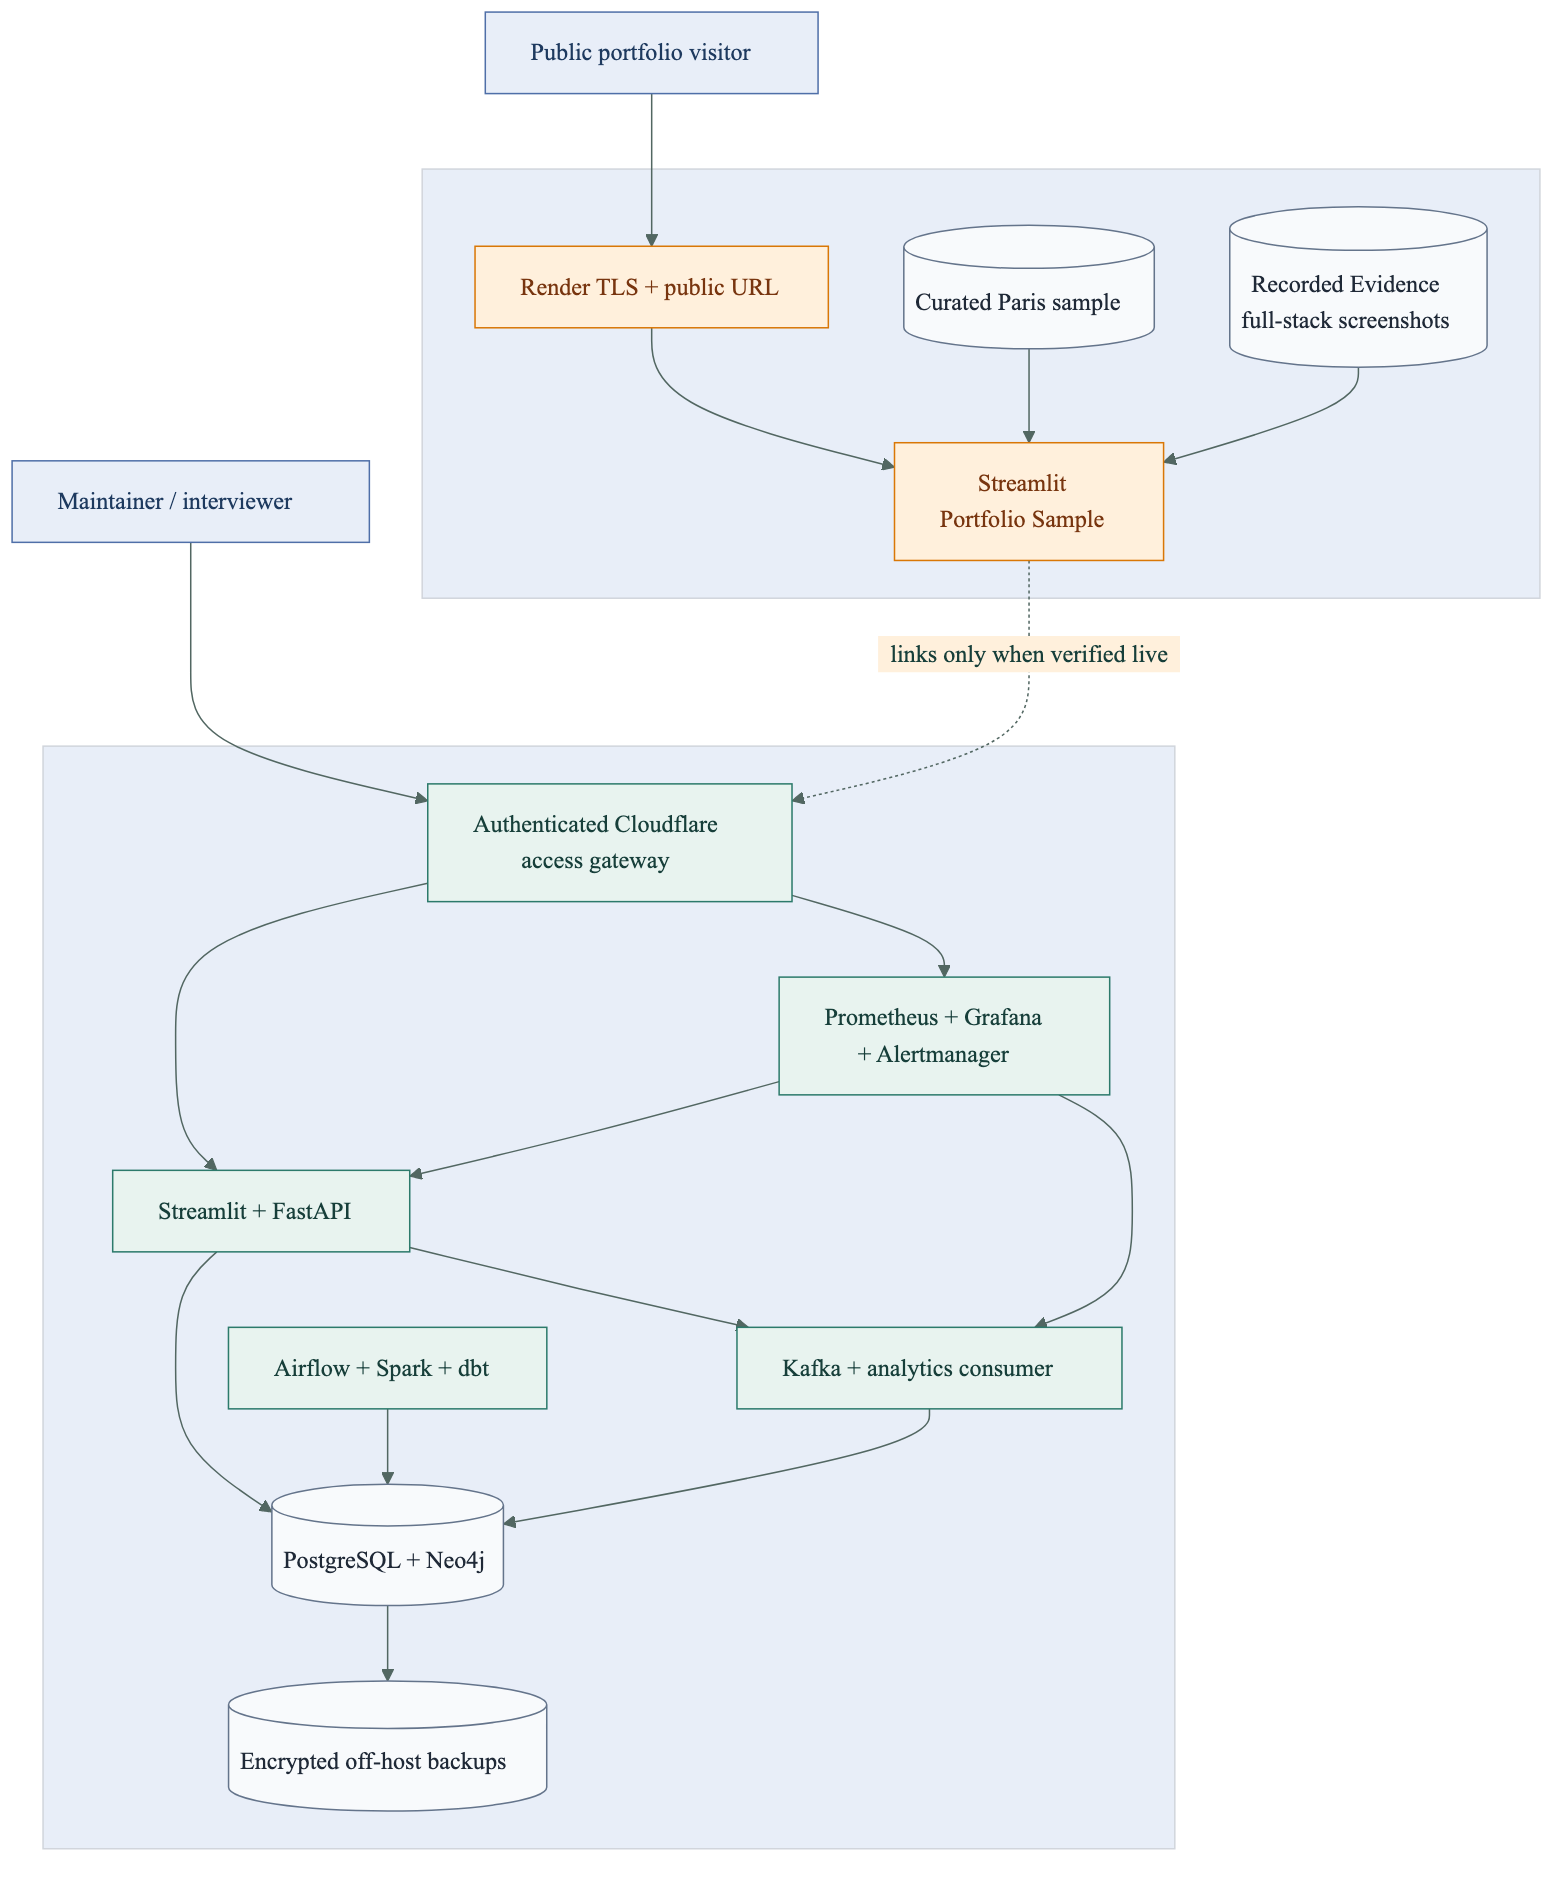
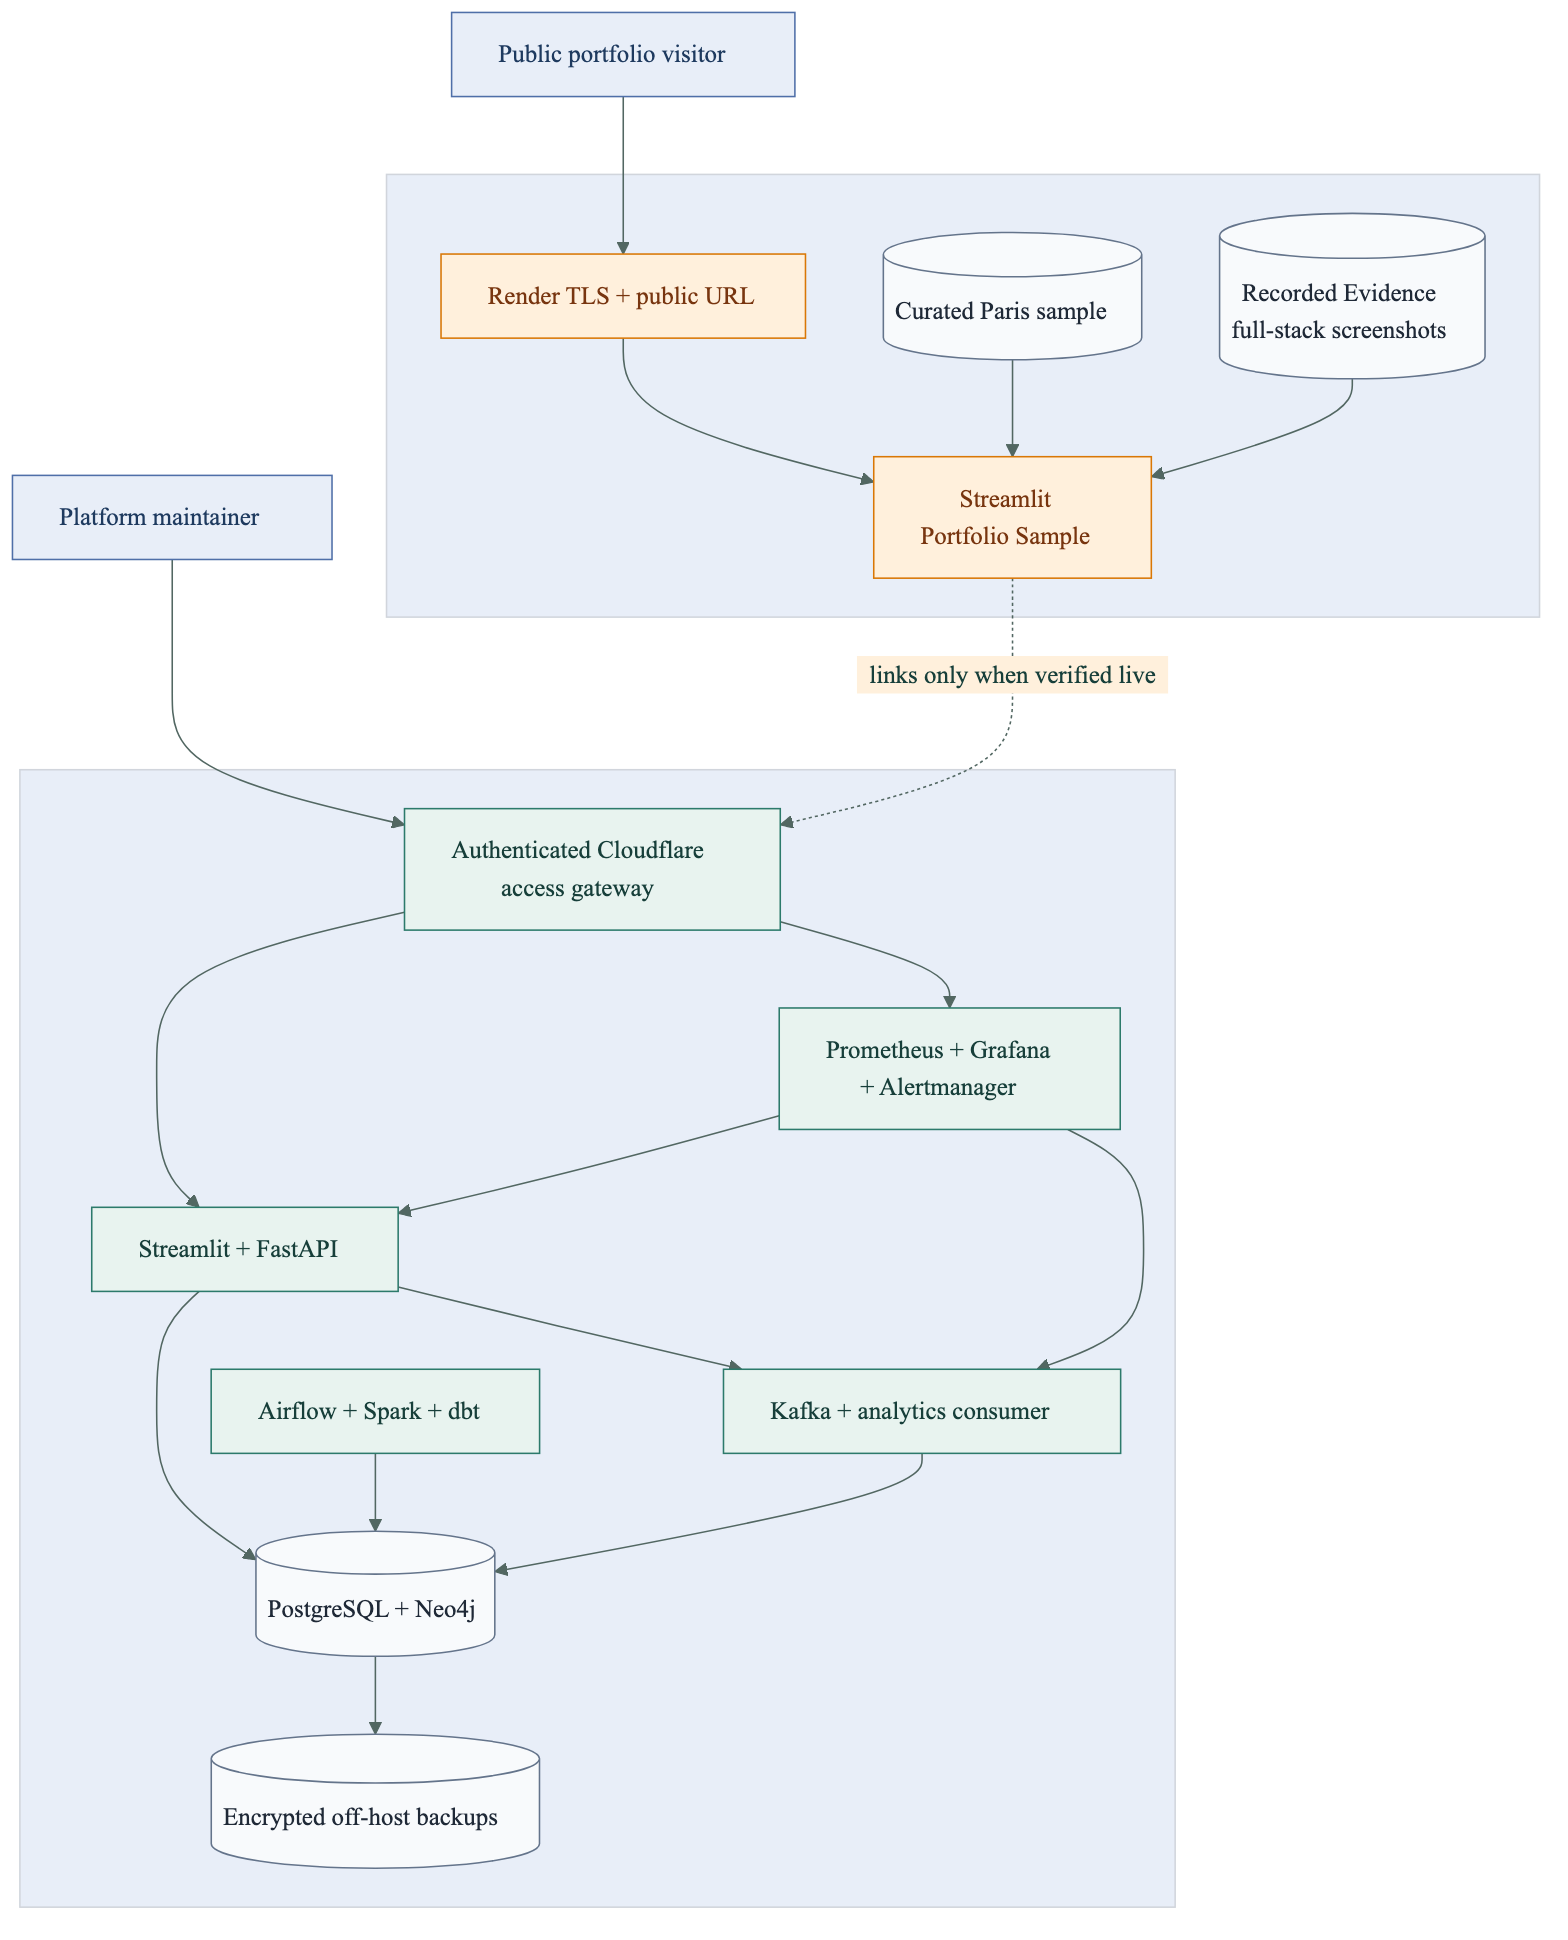
chore: streamline project documentation

diff --git a/README.md b/README.md
@@ -2,7 +2,7 @@
 
 An end-to-end tourism data product that turns DATAtourisme snapshots into trusted Points of Interest, explainable multi-day itineraries, analytical features, graph relationships, product events, and operational evidence.
 
-**[Open the public portfolio](https://holiday-itinerary-platform.onrender.com/)** · **[Architecture](docs/ARCHITECTURE.md)** · **[Interview guide](docs/INTERVIEW_GUIDE.md)**
+**[Open the live application](https://holiday.hassansalamb.dev/)** · **[Architecture](docs/ARCHITECTURE.md)** · **[Roadmap](docs/ROADMAP.md)**
 
 ![Holiday Itinerary data pipeline](docs/architecture/02-data-pipeline.png)
 
@@ -106,7 +106,6 @@ Durable trade-offs are recorded in [`docs/adr`](docs/adr).
 │   ├── architecture/             Editable diagrams plus PNG/SVG renders
 │   ├── operations/               Proxmox and Kubernetes guidance
 │   ├── ARCHITECTURE.md            Technical architecture walkthrough
-│   ├── INTERVIEW_GUIDE.md         Interview narrative and technical Q&A
 │   └── ROADMAP.md                 Prioritized product/platform improvements
 ├── monitoring/                   Prometheus, Grafana, and Alertmanager config
 ├── scripts/proxmox/              Deployment, health, and backup automation
@@ -237,12 +236,18 @@ See the [Proxmox runbook](docs/operations/PROXMOX_DEPLOYMENT.md), [release distr
 ## Documentation
 
 - [Architecture](docs/ARCHITECTURE.md)
-- [Interview preparation](docs/INTERVIEW_GUIDE.md)
 - [Roadmap](docs/ROADMAP.md)
 - [Proxmox deployment](docs/operations/PROXMOX_DEPLOYMENT.md)
 - [Kubernetes guidance](docs/operations/KUBERNETES.md)
 - [Release distribution](distribution/README.md)
 - [Snowflake Terraform example](terraform/README.md)
+
+## Branch workflow
+
+- `dev` is the integration branch for active development.
+- Changes are tested on `dev` before being merged into `main`.
+- `main` is the release branch and must remain deployable.
+- Only `main` and `dev` are maintained as long-lived branches.
 
 ## License and attribution
 
